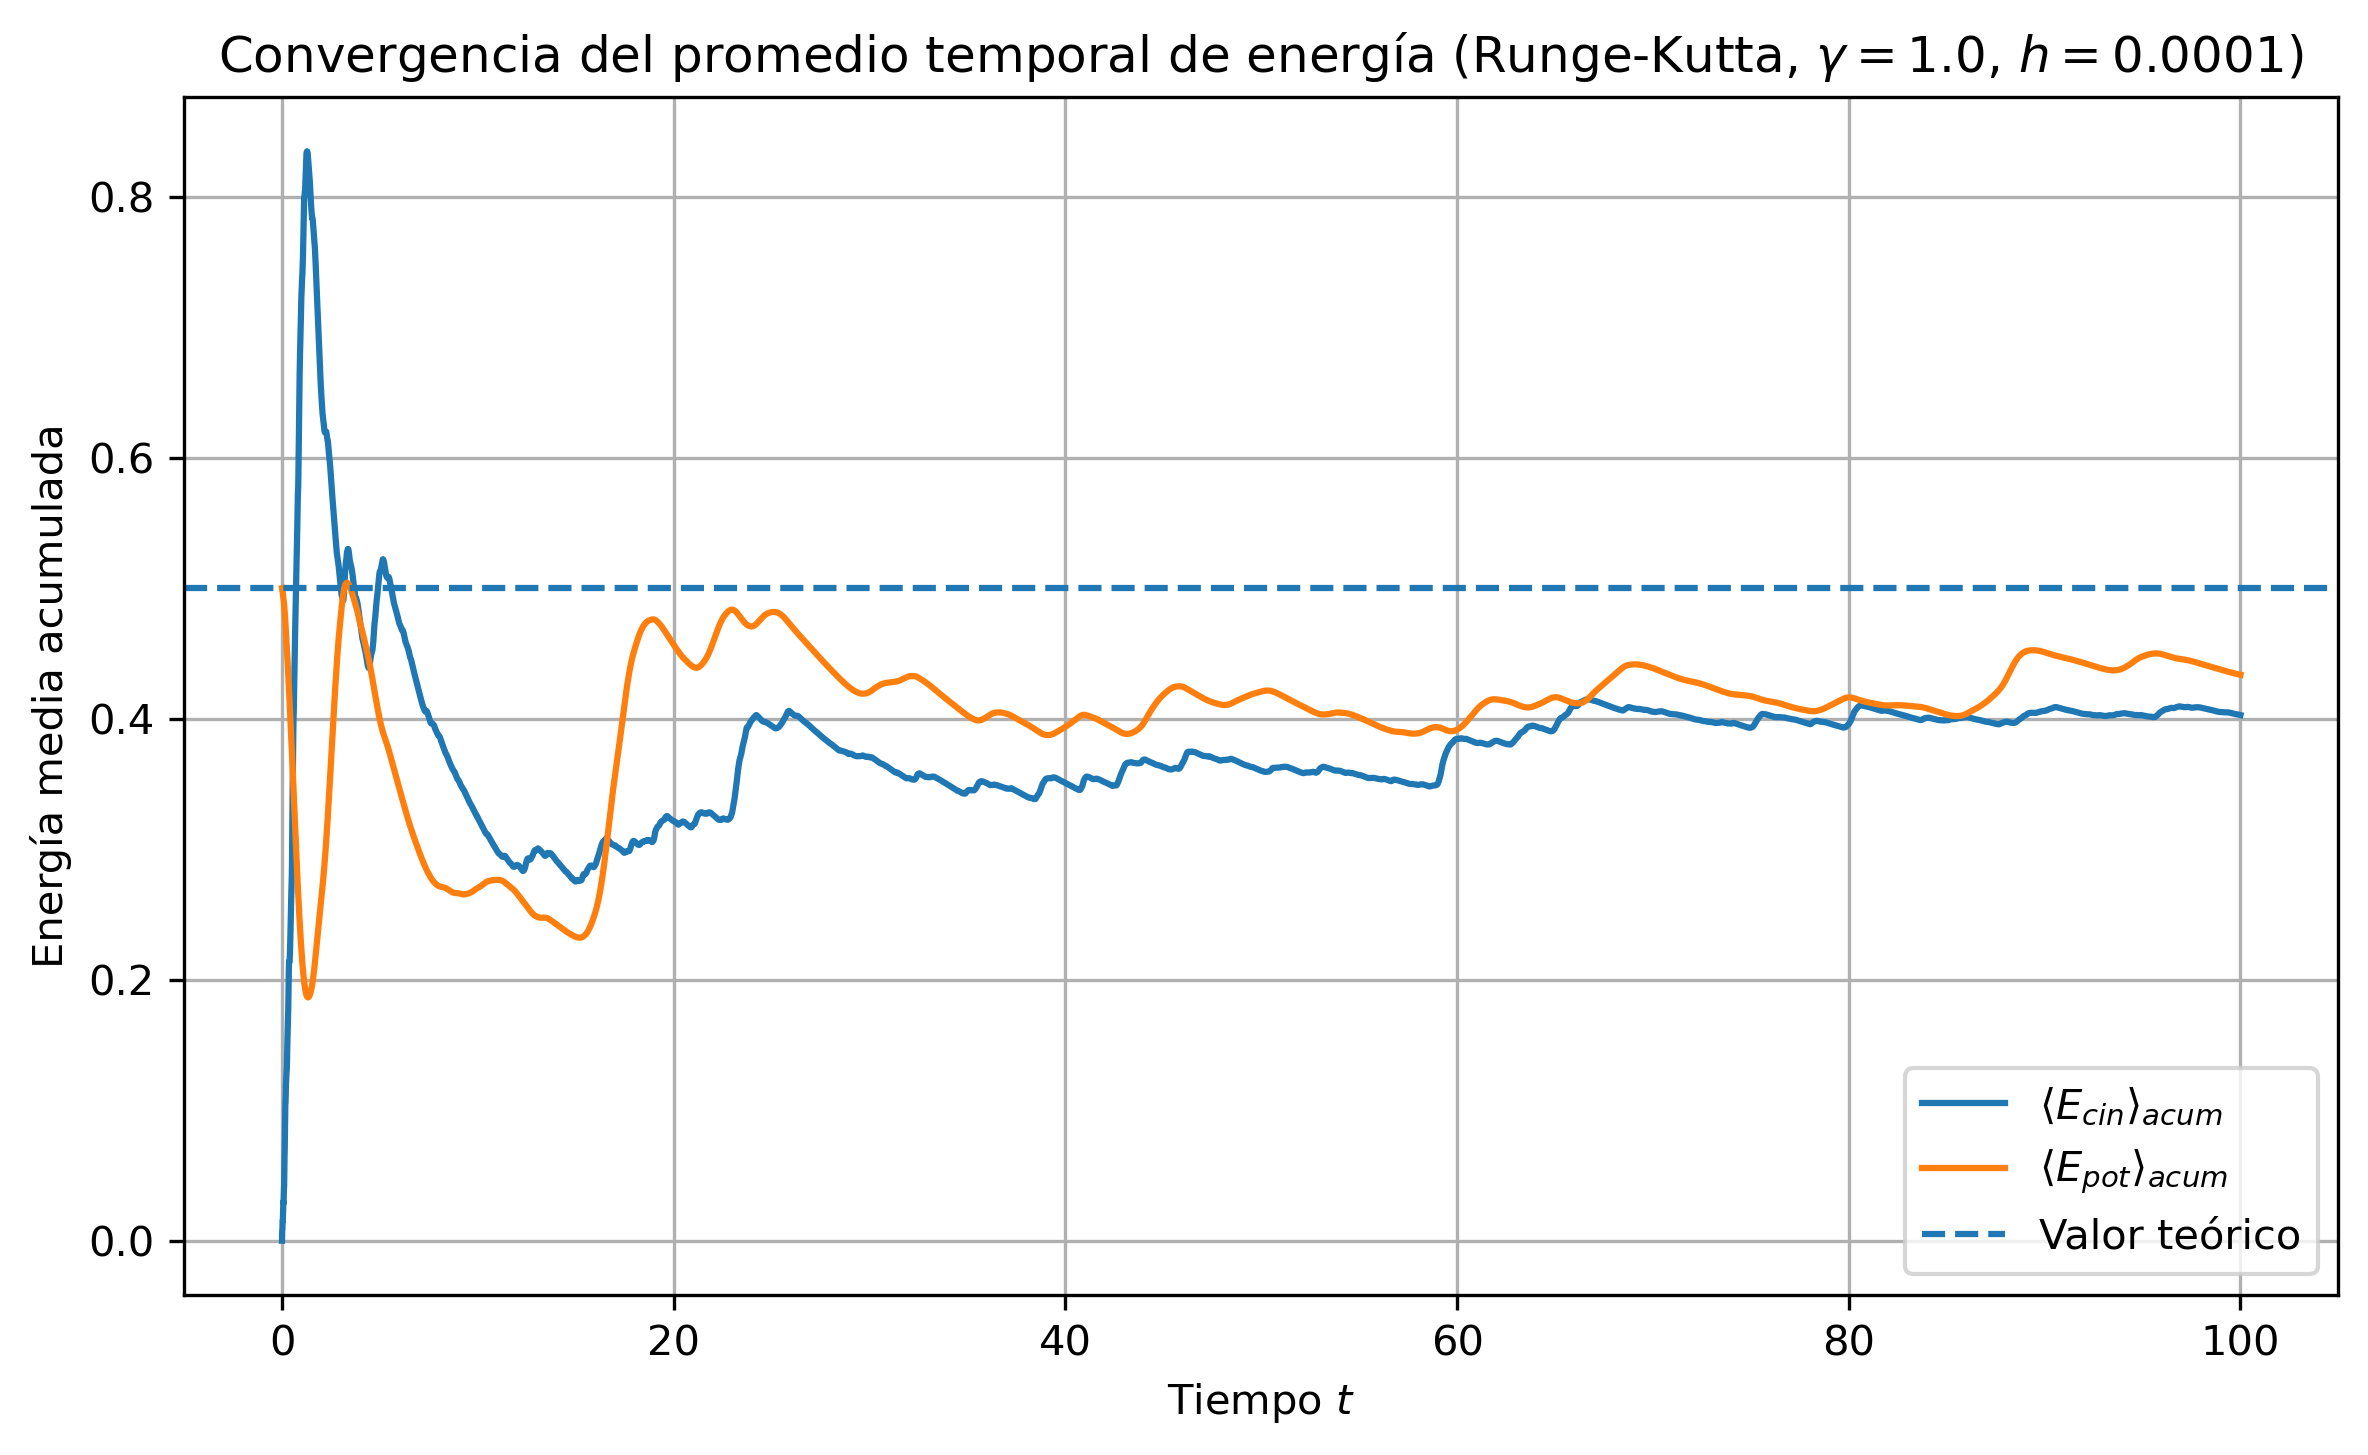
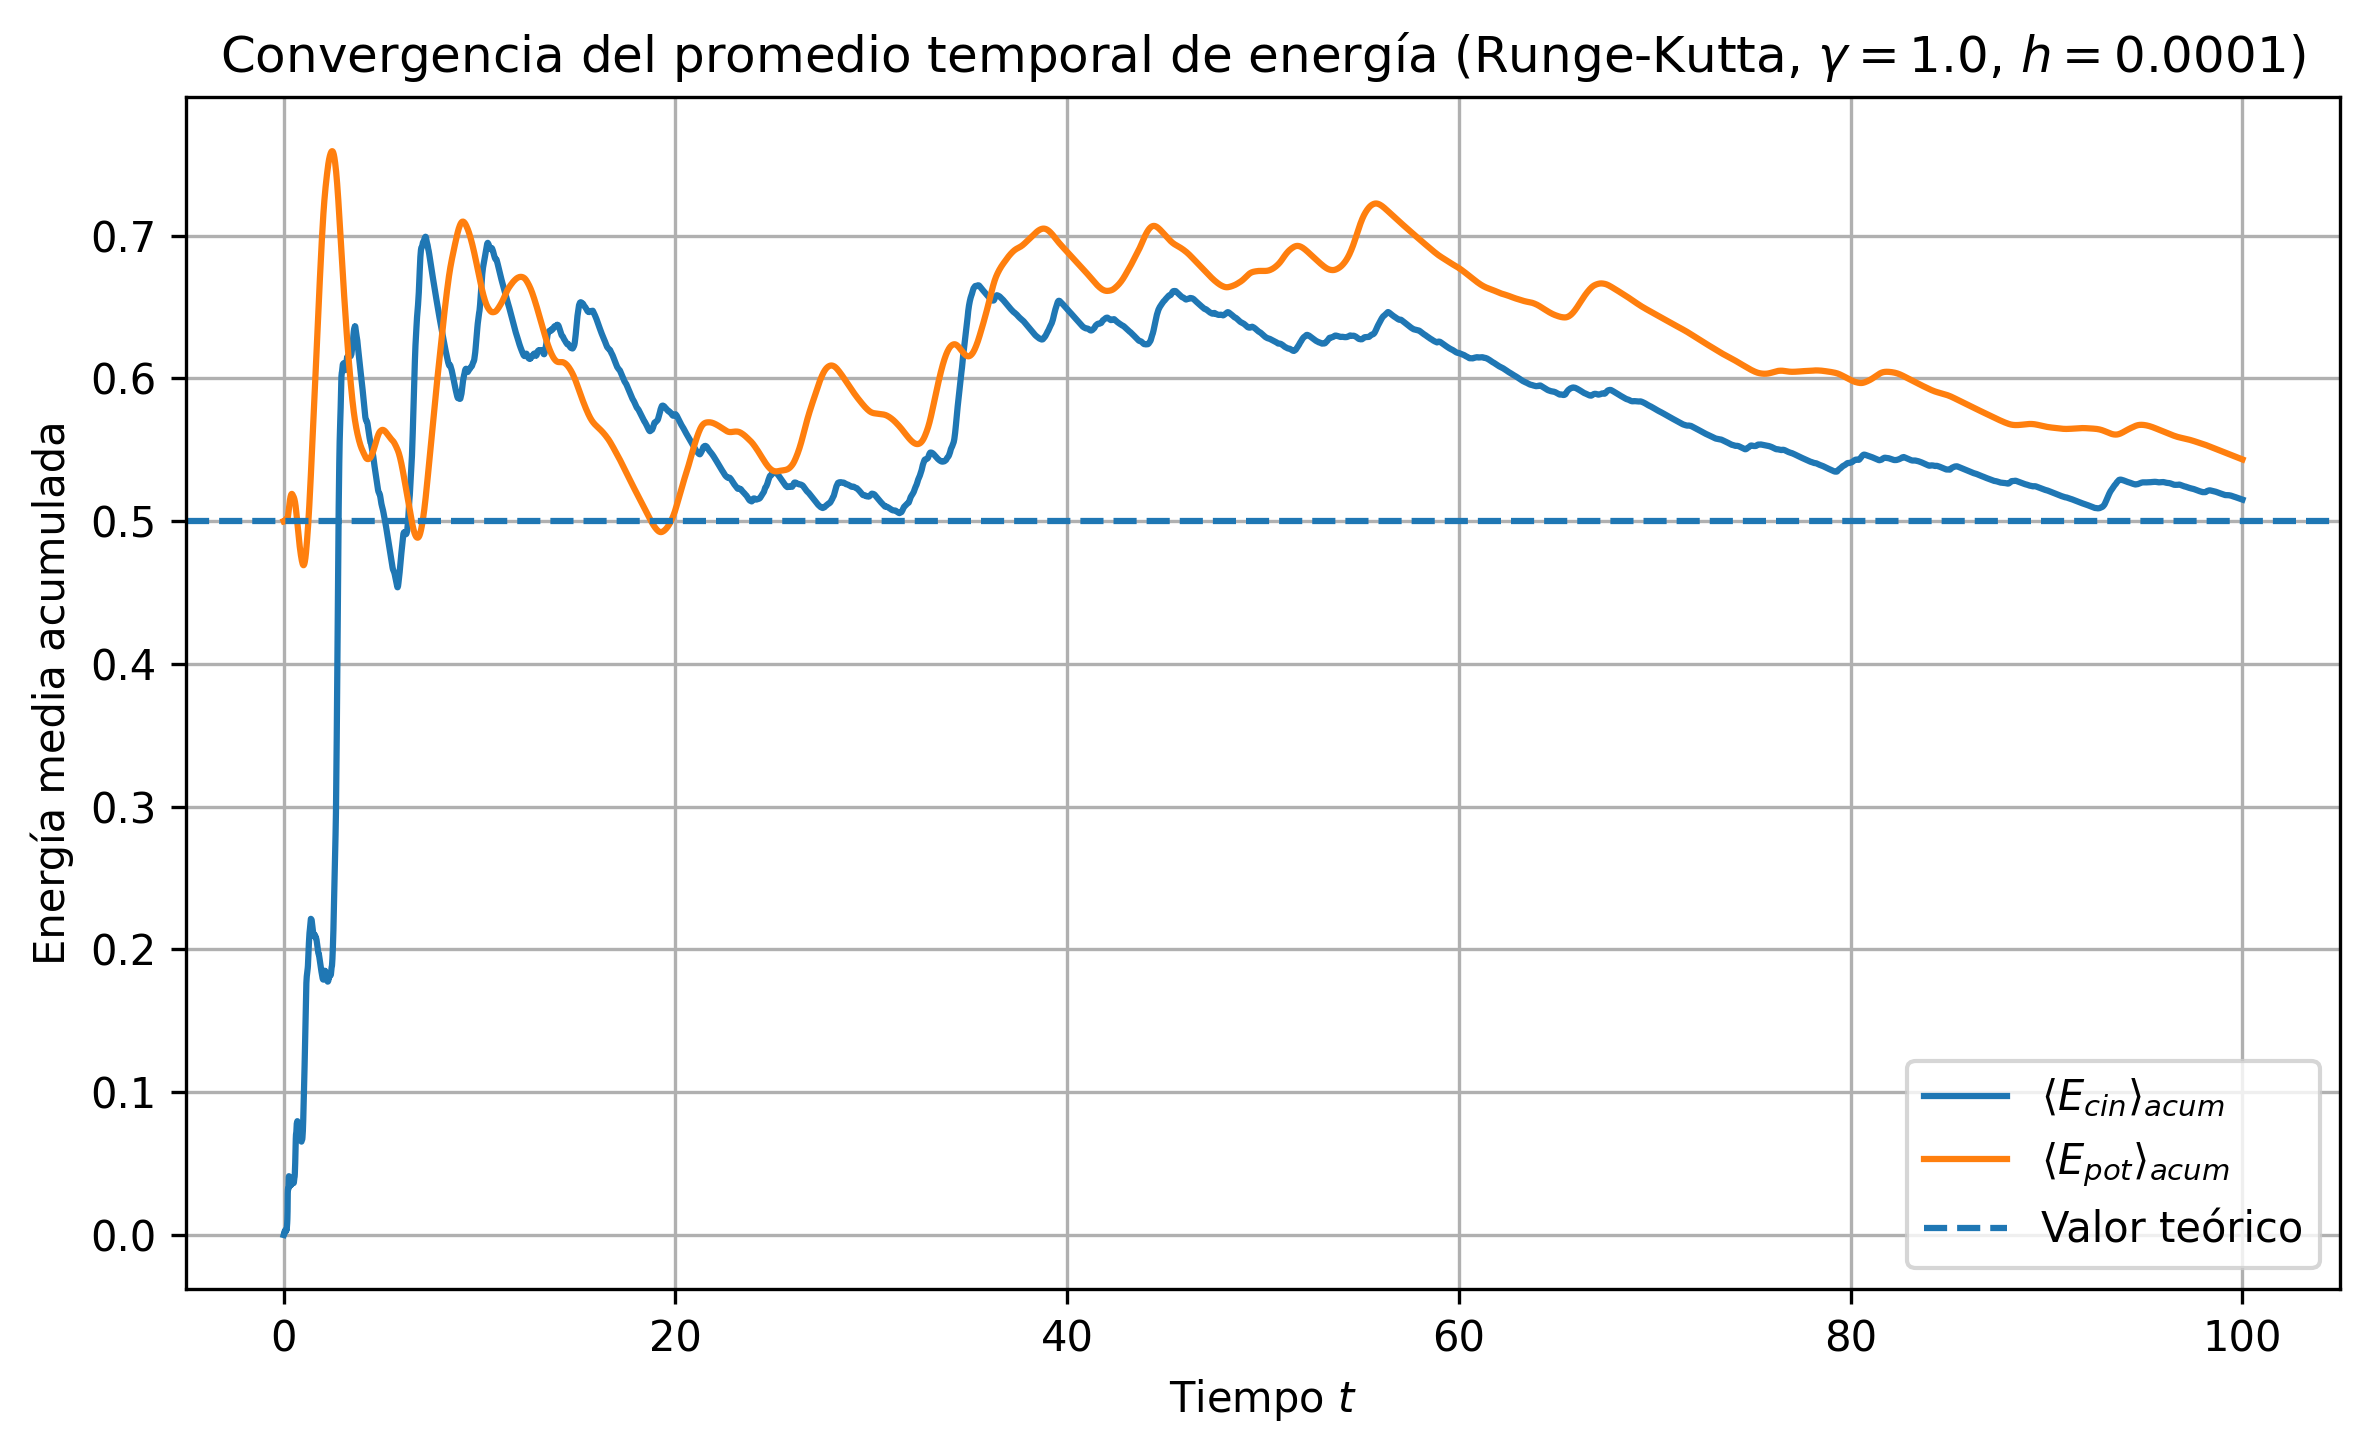
Compilador universal

diff --git a/src/main.cpp b/src/main.cpp
@@ -22,7 +22,7 @@ int main()
     model = HARMONIC;
 
     // Elegimos el algoritmo de integración
-    algorithm = EULER_MARUYAMA; // Cambiar a RUNGE_KUTTA o GJF según se desee   
+    algorithm = RUNGE_KUTTA; // Cambiar a RUNGE_KUTTA o GJF según se desee   
 
     // Asignamos un nombre al algoritmo
     if (algorithm == EULER_MARUYAMA)
@@ -45,11 +45,11 @@ int main()
 
     // Parámetros temporales
     simulation.dt = 0.0001;
-    simulation.totalTime = 100.0;
+    simulation.totalTime = 10000.0;
 
     // Parámetros físicos
     simulation.mass = 1.0;
-    simulation.gamma = 1.0;
+    simulation.gamma = 1.0;      //Coeficiente de amortiguamiento
     simulation.kBT = 1.0;
 
     // Condiciones iniciales

diff --git a/src/integrators.cpp b/src/integrators.cpp
@@ -25,7 +25,8 @@ void integrationStep(int algorithm, int model, double *x, double *v, SimulationP
     }
 
     if (algorithm == GJF)
-    {
+    {   
+        
         printf("G-JF not implemented yet\n");
         exit(1);
     }
